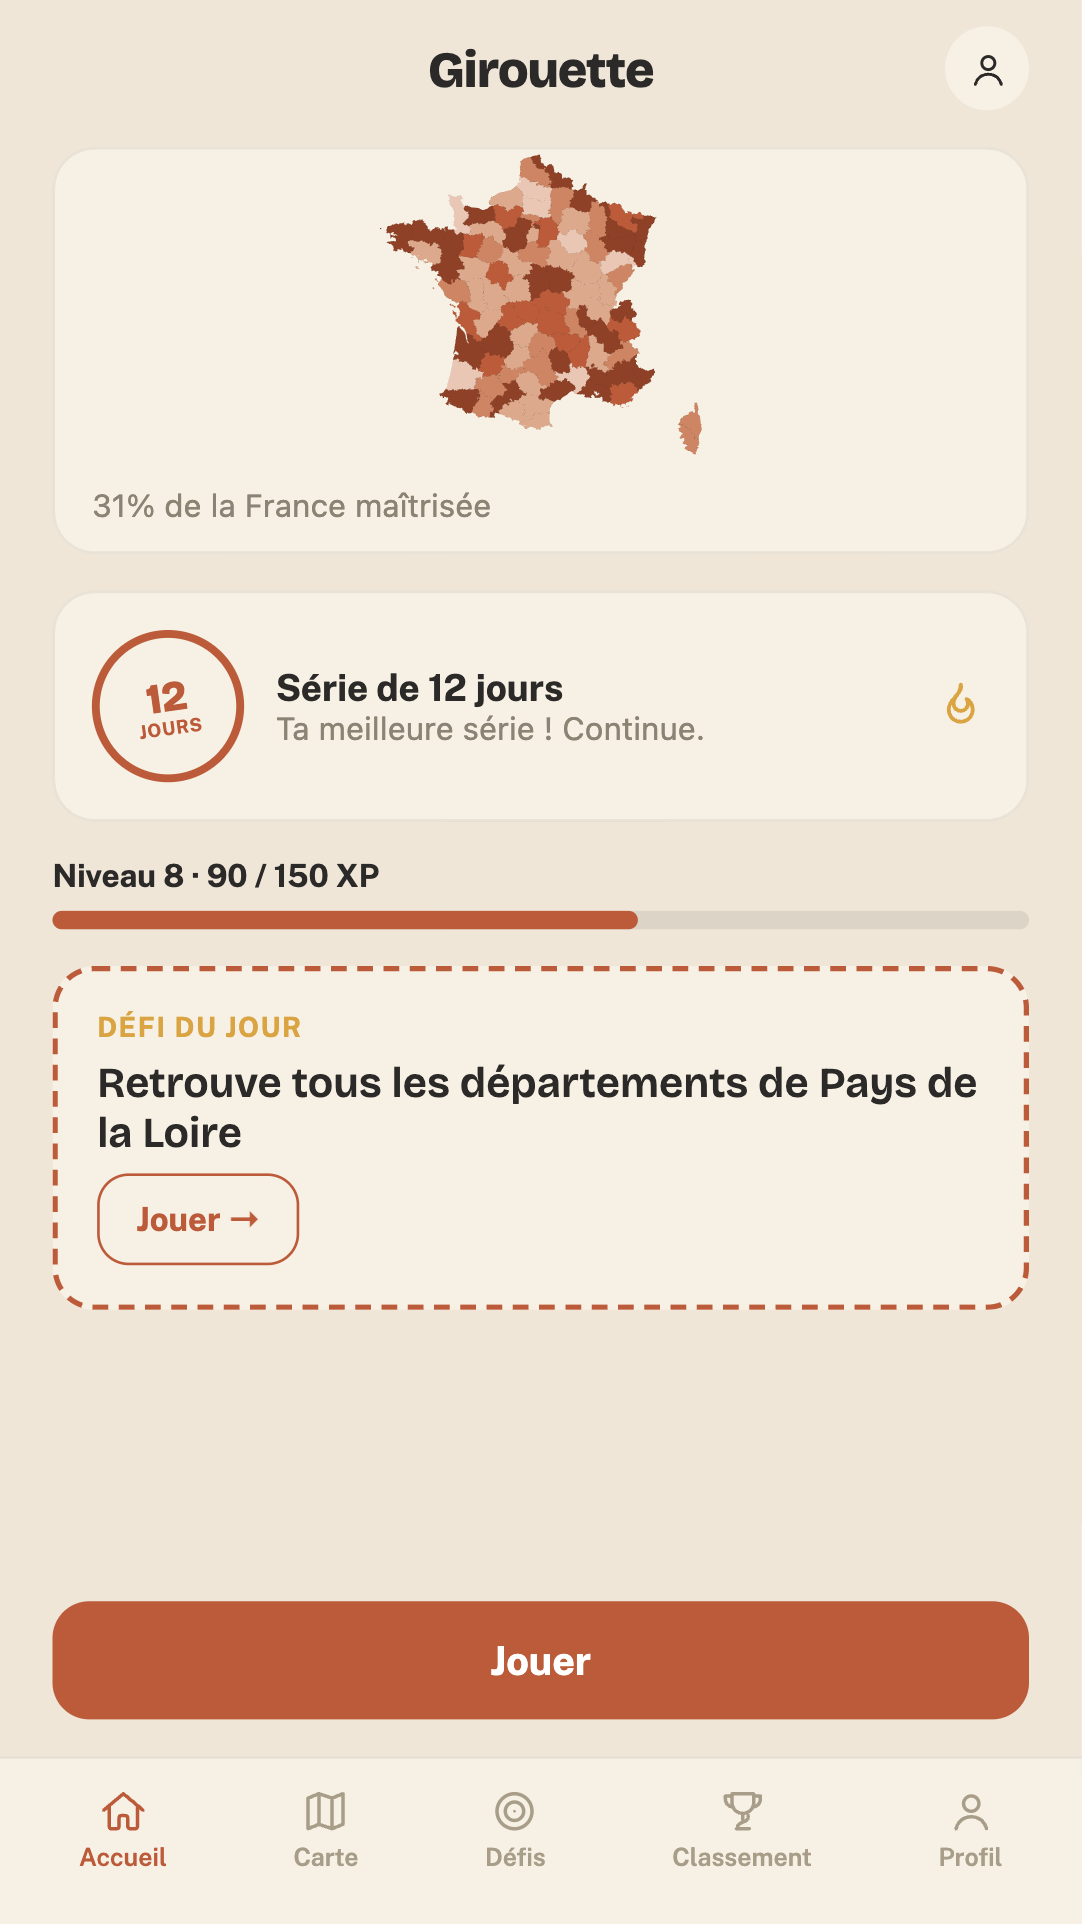
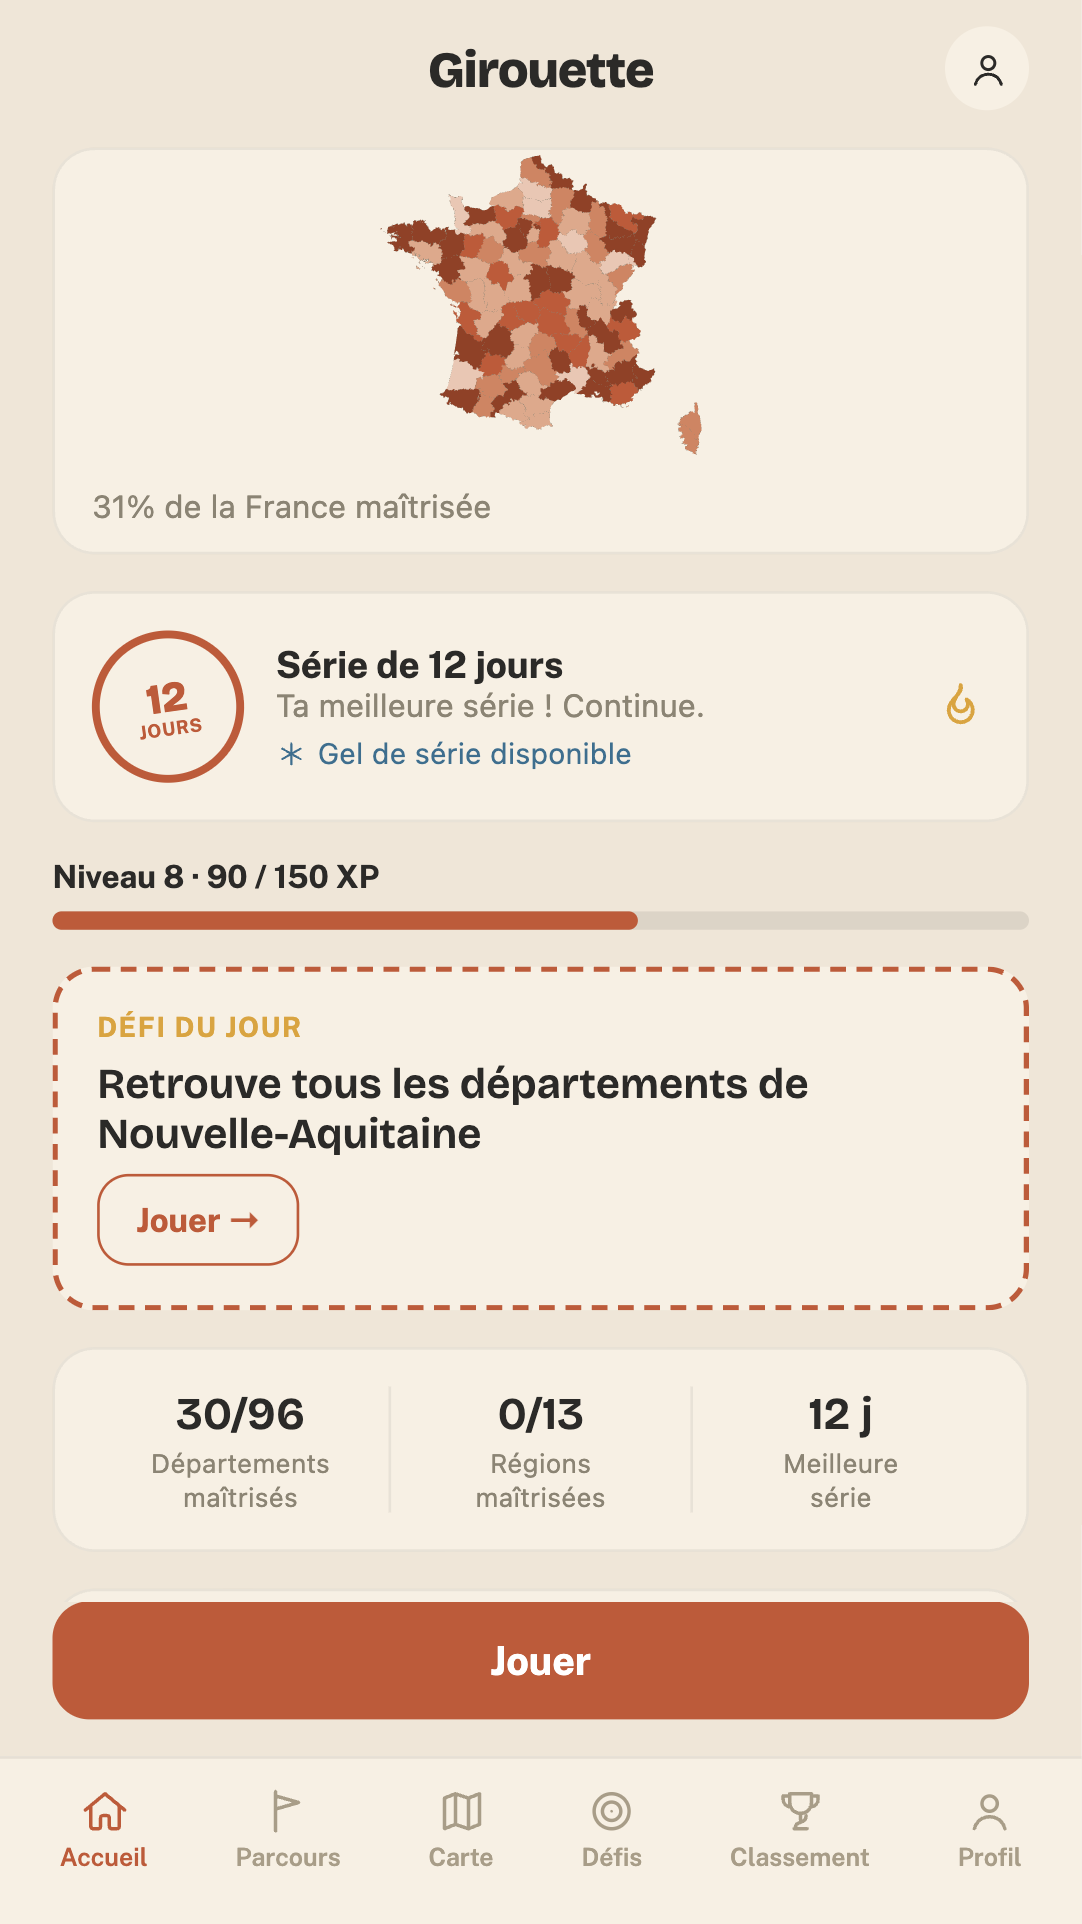
update privacy

diff --git a/privacy.html b/privacy.html
@@ -35,7 +35,7 @@
       <header>
         <p class="eyebrow">Confidentialité</p>
         <h1>Politique de confidentialité</h1>
-        <p class="meta">Dernière mise à jour : 20 juillet 2026</p>
+        <p class="meta">Dernière mise à jour : 22 juillet 2026</p>
 
         <nav class="toc" aria-label="Sommaire">
           <p>Sommaire</p>
@@ -84,12 +84,33 @@
             <li>Date de dernière mise à jour de l’entrée de classement</li>
           </ul>
 
+          <p><strong>Mesure d’audience et diagnostic technique (PostHog, Expo/EAS)</strong></p>
+          <ul>
+            <li>
+              Événements d’usage anonymisés (session de quiz terminée, leçon
+              complétée, badge débloqué, étape du Parcours franchie) et rapports de
+              plantage (erreurs JavaScript non interceptées), associés à un
+              identifiant anonyme généré par l’app — via
+              <a href="https://posthog.com/" rel="noopener noreferrer">PostHog</a>
+              (hébergé dans l’Union européenne).
+            </li>
+            <li>
+              Métriques techniques de performance (temps de démarrage, temps
+              d’affichage des écrans, temps de téléchargement des mises à jour de
+              l’application) et statistiques d’usage agrégées (nombre de
+              lancements par version), sans identifiant personnel — via les
+              services <a href="https://expo.dev/eas" rel="noopener noreferrer">EAS</a>
+              d’Expo (Expo Application Services).
+            </li>
+          </ul>
+
           <div class="callout">
             <p>
               Girouette <strong>ne collecte pas</strong> d’adresse e-mail, de nom réel,
               de numéro de téléphone, de données de localisation GPS, ni de données
-              de paiement. Aucun SDK publicitaire ni outil d’analytique tiers n’est
-              intégré à l’application à la date de cette politique.
+              de paiement. Aucun SDK publicitaire n’est intégré à l’application.
+              Les événements d’usage et de performance décrits ci-dessus ne sont
+              jamais rattachés à votre identité.
             </p>
           </div>
         </section>
@@ -109,6 +130,11 @@
             <li>
               <strong>Rappels de série</strong> (notifications locales optionnelles) —
               consentement via l’autorisation système de votre appareil.
+            </li>
+            <li>
+              <strong>Mesurer l’usage, diagnostiquer les bugs et améliorer les
+              performances</strong> (PostHog, Expo/EAS) — intérêt légitime lié à
+              l’amélioration du service.
             </li>
           </ul>
         </section>
@@ -138,8 +164,12 @@
           </p>
           <p>
             Nous utilisons Supabase comme prestataire d’hébergement et
-            d’authentification anonyme. Nous ne vendons pas vos données et ne les
-            partageons pas à des fins publicitaires.
+            d’authentification anonyme, PostHog pour la mesure d’audience et le
+            diagnostic technique (données hébergées dans l’Union européenne), et
+            les services EAS d’Expo (Expo Application Services, États-Unis) pour
+            les mises à jour de l’application et les métriques de performance.
+            Nous ne vendons pas vos données et ne les partageons pas à des fins
+            publicitaires.
           </p>
         </section>
 

diff --git a/index.html b/index.html
@@ -148,11 +148,18 @@
       <section class="section" id="aperçu">
         <p class="section-eyebrow">Aperçu</p>
         <h2>Quelques écrans</h2>
-        <p class="section-lead">Accueil, quiz et carte — le cœur de Girouette.</p>
+        <p class="section-lead">
+          Accueil, parcours, quiz, carte, défis et classement — le cœur de
+          Girouette.
+        </p>
         <div class="gallery">
           <figure>
             <img src="assets/screen-accueil.png" alt="Accueil Girouette" width="412" height="733" />
             <figcaption>Accueil &amp; progression</figcaption>
+          </figure>
+          <figure>
+            <img src="assets/screen-parcours.png" alt="Parcours guidé Girouette" width="412" height="733" />
+            <figcaption>Parcours guidé</figcaption>
           </figure>
           <figure>
             <img src="assets/screen-quiz.png" alt="Quiz Girouette" width="412" height="733" />
@@ -161,6 +168,14 @@
           <figure>
             <img src="assets/screen-carte.png" alt="Carte Girouette" width="412" height="733" />
             <figcaption>Carte de maîtrise</figcaption>
+          </figure>
+          <figure>
+            <img src="assets/screen-defis.png" alt="Défis régionaux Girouette" width="412" height="733" />
+            <figcaption>Défis régionaux</figcaption>
+          </figure>
+          <figure>
+            <img src="assets/screen-classement.png" alt="Classement Girouette" width="412" height="733" />
+            <figcaption>Classement</figcaption>
           </figure>
         </div>
       </section>